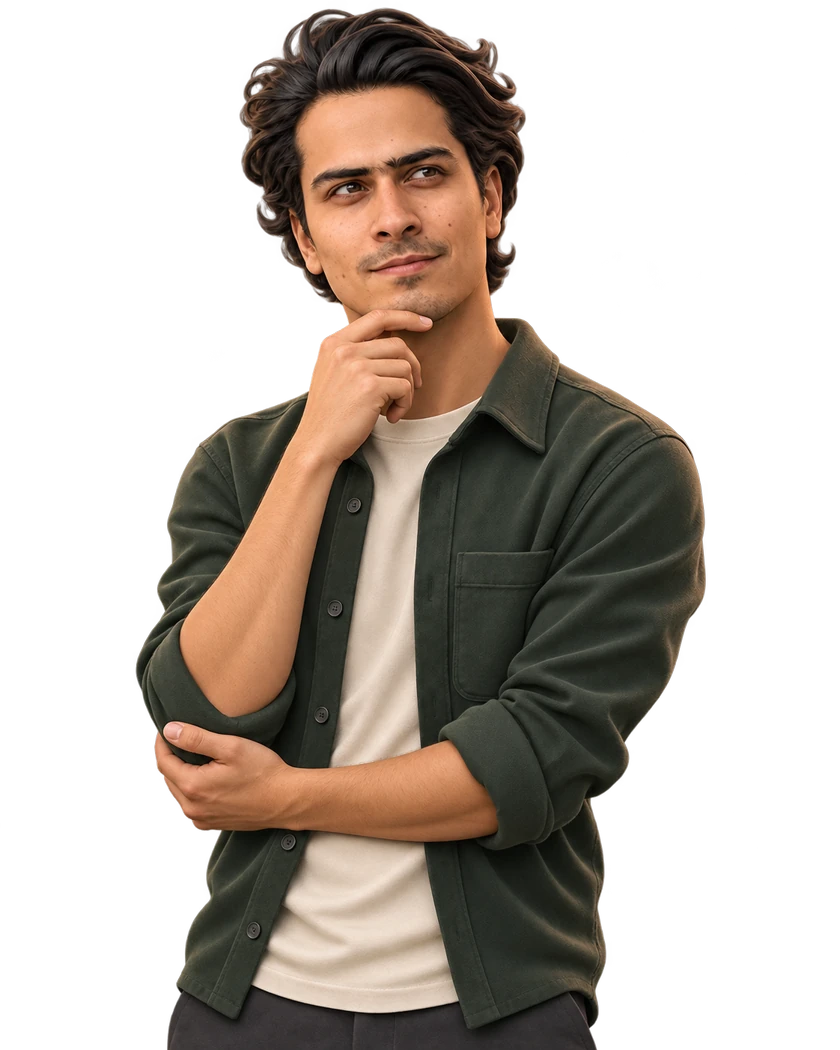
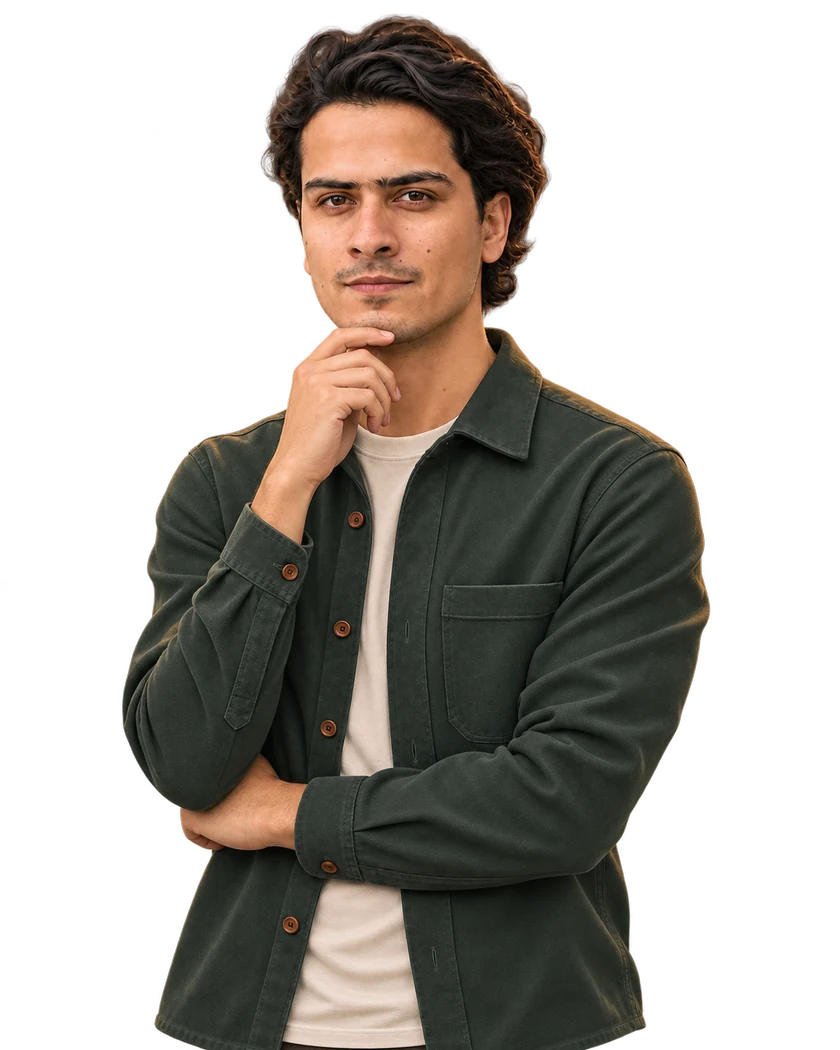
Match selected portrait likeness and remove workplace branding

Changed region(s): [[0.1238, 0.0, 0.8667, 1.0], [0.5571, 0.9448, 0.65, 1.0], [0.5262, 0.5486, 0.5571, 0.579]]

diff --git a/index.html b/index.html
@@ -1,12 +1,12 @@
 <!doctype html>
-<html lang="en"><head><meta charset="utf-8"><meta name="viewport" content="width=device-width, initial-scale=1"><meta name="theme-color" content="#11171c"><title>Gunjan Mishra — Research Engineer & Builder</title><meta name="description" content="Selected products, computer vision work, and research by Gunjan Kumar Mishra."><meta property="og:type" content="website"><meta property="og:title" content="Gunjan Mishra — Research Engineer & Builder"><meta property="og:description" content="Selected products, computer vision work, and research by Gunjan Kumar Mishra."><meta property="og:image" content="https://mgunjan67.github.io/media/social-cover.jpg"><meta name="twitter:card" content="summary_large_image"><link rel="canonical" href="https://mgunjan67.github.io/"><meta property="og:url" content="https://mgunjan67.github.io/"><link rel="icon" href="media/favicon.svg" type="image/svg+xml"><link rel="preload" href="media/fonts/dm-sans-latin.woff2" as="font" type="font/woff2" crossorigin><link rel="stylesheet" href="styles.css"><link rel="stylesheet" href="visual.css"><script src="app.js" defer></script><script src="showcase.js" defer></script><script src="experience.js" defer></script></head><body class="home-page"><a class="skip-link" href="#main">Skip to content</a><header class="site-header shell"><a class="wordmark" href="#home" aria-label="Gunjan home">gunjan<span>✳</span></a><button class="menu-toggle" aria-expanded="false" aria-controls="navigation" aria-label="Open navigation"><span></span><span></span></button><nav id="navigation" aria-label="Main navigation"><a href="#products">Work</a><a href="#research">Research</a><a href="#about">About</a><a class="nav-contact" href="mailto:mgunjan67@gmail.com">Let’s build <span aria-hidden="true">↗</span></a></nav></header><main id="main">
-<section class="hero shell" id="home"><div class="hero-copy"><p class="eyebrow"><span class="hero-status" aria-hidden="true"></span> GUNJAN MISHRA / RESEARCH ENGINEER</p><h1>Research.<br><span class="hero-lime">Build.</span><br><span class="outline-word">Repeat.</span></h1><p class="hero-intro">Research engineer at <a href="angelswing.html">Angelswing ↗</a><br>Independent builder of useful AI.</p><a class="hero-cta" href="#products">Enter the work <span aria-hidden="true">↘</span></a></div><div class="hero-stage" data-depth-scene><div class="hero-orbit orbit-a" aria-hidden="true"></div><div class="hero-orbit orbit-b" aria-hidden="true"></div><div class="hero-world" aria-hidden="true"></div><div class="hero-platform" aria-hidden="true"></div><div class="hero-person"><img src="media/avatars/gunjan-building.webp" alt="Gunjan’s avatar building with a laptop" width="840" height="1050" fetchpriority="high"></div><a class="floating-shot" href="#products" aria-label="Explore Photo Finisher"><img src="media/photos/scene-03-thumb.webp" alt="" width="560" height="374"><span aria-hidden="true">↗</span></a><a class="floating-space" href="#angelswing" aria-label="Explore spatial work"><img src="media/spatial-study.svg" alt="" width="900" height="650"></a><span class="stage-cross" aria-hidden="true">✳</span></div><div class="hero-bottom"><span>KATHMANDU, NP · RESEARCH × PRODUCTS</span><a href="#products">SELECTED WORK <span aria-hidden="true">↓</span></a></div></section>
+<html lang="en"><head><meta charset="utf-8"><meta name="viewport" content="width=device-width, initial-scale=1"><meta name="theme-color" content="#11171c"><title>Gunjan Mishra — Research & Products</title><meta name="description" content="Selected products, computer vision work, and research by Gunjan Kumar Mishra."><meta property="og:type" content="website"><meta property="og:title" content="Gunjan Mishra — Research & Products"><meta property="og:description" content="Selected products, computer vision work, and research by Gunjan Kumar Mishra."><meta property="og:image" content="https://mgunjan67.github.io/media/social-cover.jpg"><meta name="twitter:card" content="summary_large_image"><link rel="canonical" href="https://mgunjan67.github.io/"><meta property="og:url" content="https://mgunjan67.github.io/"><link rel="icon" href="media/favicon.svg" type="image/svg+xml"><link rel="preload" href="media/fonts/dm-sans-latin.woff2" as="font" type="font/woff2" crossorigin><link rel="stylesheet" href="styles.css"><link rel="stylesheet" href="visual.css"><script src="app.js" defer></script><script src="showcase.js" defer></script><script src="experience.js" defer></script></head><body class="home-page"><a class="skip-link" href="#main">Skip to content</a><header class="site-header shell"><a class="wordmark" href="#home" aria-label="Gunjan home">gunjan<span>✳</span></a><button class="menu-toggle" aria-expanded="false" aria-controls="navigation" aria-label="Open navigation"><span></span><span></span></button><nav id="navigation" aria-label="Main navigation"><a href="#products">Work</a><a href="#research">Research</a><a href="#about">About</a><a class="nav-contact" href="mailto:mgunjan67@gmail.com">Let’s build <span aria-hidden="true">↗</span></a></nav></header><main id="main">
+<section class="hero shell" id="home"><div class="hero-copy"><p class="eyebrow"><span class="hero-status" aria-hidden="true"></span> GUNJAN MISHRA / RESEARCH × PRODUCTS</p><h1>Research.<br><span class="hero-lime">Build.</span><br><span class="outline-word">Repeat.</span></h1><p class="hero-intro">Building useful AI<br>for images, spaces, and ideas.</p><a class="hero-cta" href="#products">Enter the work <span aria-hidden="true">↘</span></a></div><div class="hero-stage" data-depth-scene><div class="hero-orbit orbit-a" aria-hidden="true"></div><div class="hero-orbit orbit-b" aria-hidden="true"></div><div class="hero-world" aria-hidden="true"></div><div class="hero-platform" aria-hidden="true"></div><div class="hero-person"><img src="media/gunjan-avatar-3d.webp" alt="Gunjan’s selected portrait avatar" width="960" height="1200" fetchpriority="high"></div><a class="floating-shot" href="#products" aria-label="Explore Photo Finisher"><img src="media/photos/scene-03-thumb.webp" alt="" width="560" height="374"><span aria-hidden="true">↗</span></a><a class="floating-space" href="#spatial-work" aria-label="Explore spatial work"><img src="media/spatial-study.svg" alt="" width="900" height="650"></a><span class="stage-cross" aria-hidden="true">✳</span></div><div class="hero-bottom"><span>COMPUTER VISION · RESEARCH × PRODUCTS</span><a href="#products">SELECTED WORK <span aria-hidden="true">↓</span></a></div></section>
 <section class="photo-chapter" id="products" aria-labelledby="photo-project-title"><div class="shell"><div class="chapter-heading"><div><p class="eyebrow">01 / INDEPENDENT PRODUCT</p><h2 id="photo-project-title"><a href="photo-finisher.html">Photo Finisher<span>↗</span></a></h2></div><p>Better light.<br>Same place.</p></div><div class="home-comparison" id="home-comparison"><img id="home-after" src="media/photos/scene-01-result.webp" alt="Saved edited result of a living room" width="1440" height="962" loading="lazy"><div class="home-before"><img id="home-before" src="media/photos/scene-01-input.webp" alt="One original exposure of the same living room" width="1100" height="734" loading="lazy"></div><span class="home-image-label before-label">ORIGINAL</span><span class="home-image-label after-label">FINISHED</span><span class="home-compare-line"><span>↔</span></span><input type="range" id="home-reveal" min="0" max="100" value="45" aria-label="Compare original and finished property photo"></div><div class="photo-console"><div class="home-scenes" role="group" aria-label="Choose a photo example"><button data-home-scene="01" aria-pressed="true"><img src="media/photos/scene-01-thumb.webp" alt="" width="560" height="374" loading="lazy"><span>Interior</span></button><button data-home-scene="02" aria-pressed="false"><img src="media/photos/scene-02-thumb.webp" alt="" width="560" height="374" loading="lazy"><span>Kitchen</span></button><button data-home-scene="04" aria-pressed="false"><img src="media/photos/scene-04-thumb.webp" alt="" width="560" height="374" loading="lazy"><span>Exterior</span></button></div><a class="project-cta" href="photo-finisher.html">Explore all 25 results <span aria-hidden="true">↗</span></a></div></div></section>
-<section class="spatial-chapter" id="angelswing" aria-labelledby="spatial-project-title"><div class="shell"><div class="chapter-heading"><div><p class="eyebrow">02 / ANGELSWING</p><h2 id="spatial-project-title">Seeing in<br><em>space & time.</em></h2></div><a class="light-project-link" href="angelswing.html">Explore the work <span aria-hidden="true">↗</span></a></div><div class="spatial-experience" id="spatial-experience"><div class="spatial-scene"><div class="scene-glow" aria-hidden="true"></div><img class="spatial-fallback" src="media/spatial-study.svg" alt="Original illustration of spatial mapping" width="900" height="650" loading="lazy"><canvas id="site-canvas" width="1240" height="620" aria-label="Interactive 3D workflow illustration of an invented site"></canvas><span class="scene-caption">DRAG TO EXPLORE</span><span class="scene-coordinate" aria-hidden="true">IMAGE ↔ SPACE</span></div><div class="scene-console"><div class="scene-modes" role="group" aria-label="Choose a spatial workflow"><button data-scene-mode="space" aria-pressed="true">Space</button><button data-scene-mode="time" aria-pressed="false">Time</button></div><label class="scene-range" for="site-rotation"><span>Rotate view</span><input id="site-rotation" type="range" min="-180" max="180" value="-24" aria-label="Rotate site model"></label><label class="scene-range progress-range" id="progress-control" for="site-progress" hidden><span>Build progress <output id="site-progress-value">Structure</output></span><input id="site-progress" type="range" min="5" max="100" value="75" aria-label="Construction stage in the illustration"></label><span class="scene-note">ORIGINAL WORKFLOW ILLUSTRATION</span></div></div></div></section>
+<section class="spatial-chapter" id="spatial-work" aria-labelledby="spatial-project-title"><div class="shell"><div class="chapter-heading"><div><p class="eyebrow">02 / SPATIAL INTELLIGENCE</p><h2 id="spatial-project-title">Seeing in<br><em>space & time.</em></h2></div><a class="light-project-link" href="spatial-work.html">Explore the work <span aria-hidden="true">↗</span></a></div><div class="spatial-experience" id="spatial-experience"><div class="spatial-scene"><div class="scene-glow" aria-hidden="true"></div><img class="spatial-fallback" src="media/spatial-study.svg" alt="Original illustration of spatial mapping" width="900" height="650" loading="lazy"><canvas id="site-canvas" width="1240" height="620" aria-label="Interactive 3D workflow illustration of an invented site"></canvas><span class="scene-caption">DRAG TO EXPLORE</span><span class="scene-coordinate" aria-hidden="true">IMAGE ↔ SPACE</span></div><div class="scene-console"><div class="scene-modes" role="group" aria-label="Choose a spatial workflow"><button data-scene-mode="space" aria-pressed="true">Space</button><button data-scene-mode="time" aria-pressed="false">Time</button></div><label class="scene-range" for="site-rotation"><span>Rotate view</span><input id="site-rotation" type="range" min="-180" max="180" value="-24" aria-label="Rotate site model"></label><label class="scene-range progress-range" id="progress-control" for="site-progress" hidden><span>Build progress <output id="site-progress-value">Structure</output></span><input id="site-progress" type="range" min="5" max="100" value="75" aria-label="Construction stage in the illustration"></label><span class="scene-note">ORIGINAL WORKFLOW ILLUSTRATION</span></div></div></div></section>
 <section class="research-chapter" id="research" aria-labelledby="research-title"><div class="shell research-composition"><div class="research-art"><p class="eyebrow">SELECTED PREPRINTS</p><h2 id="research-title">Research,<br><em>in public.</em></h2><div class="research-person"><span aria-hidden="true">?</span><img src="media/avatars/gunjan-thinking.webp" alt="Gunjan’s avatar in a thoughtful research pose" width="840" height="1050" loading="lazy"></div></div><div class="research-list">
   <a class="research-item" href="https://egusphere.copernicus.org/preprints/2026/egusphere-2026-4315/" target="_blank" rel="noopener noreferrer"><span class="research-number">01</span><div><h3>Rethinking landslide monitoring</h3><p>Fibre-optic sensing & evaluation · EGUsphere preprint</p></div><span class="research-year">2026</span><span class="research-arrow" aria-hidden="true">↗</span></a>
   <a class="research-item" href="https://eartharxiv.org/repository/view/10851/" target="_blank" rel="noopener noreferrer"><span class="research-number">02</span><div><h3>Learning Nepal’s river patterns</h3><p>Runoff forecasting · EarthArXiv preprint</p></div><span class="research-year">2025</span><span class="research-arrow" aria-hidden="true">↗</span></a>
   <a class="research-item" href="https://doi.org/10.36227/techrxiv.175416003.30236370/v1" target="_blank" rel="noopener noreferrer"><span class="research-number">03</span><div><h3>Typing with Emotions</h3><p>Computer vision & human interaction · TechRxiv preprint</p></div><span class="research-year" aria-hidden="true"></span><span class="research-arrow" aria-hidden="true">↗</span></a>
  </div></div></section>
-<section class="about-chapter" id="about" aria-labelledby="about-title"><div class="shell about-composition"><div class="about-portrait"><div class="portrait-tile" aria-hidden="true"></div><img src="media/gunjan-avatar-3d.webp" alt="Gunjan’s original 3D avatar" width="960" height="1200" loading="lazy"><a class="portrait-link" href="#contact" aria-label="Start a conversation">↗</a></div><div class="about-copy"><p class="eyebrow">THE HUMAN BEHIND THE WORK</p><h2 id="about-title">A little<br>more human.</h2><p>Kathmandu-based research engineer. I work across computer vision, scientific machine learning, and software—and enjoy teaching what I learn.</p><a class="underlined-link" href="mailto:mgunjan67@gmail.com?subject=CV%20request">Request my CV <span aria-hidden="true">↗</span></a></div></div></section>
+<section class="about-chapter" id="about" aria-labelledby="about-title"><div class="shell about-composition"><div class="about-portrait"><div class="portrait-tile" aria-hidden="true"></div><img src="media/avatars/gunjan-building.webp" alt="Gunjan’s avatar working with a laptop" width="840" height="1050" loading="lazy"><a class="portrait-link" href="#contact" aria-label="Start a conversation">↗</a></div><div class="about-copy"><p class="eyebrow">THE HUMAN BEHIND THE WORK</p><h2 id="about-title">A little<br>more human.</h2><p>I build tools for seeing and understanding the world—through computer vision, scientific machine learning, and software.</p><a class="underlined-link" href="mailto:mgunjan67@gmail.com?subject=Let%E2%80%99s%20build%20something">Let’s talk ideas <span aria-hidden="true">↗</span></a></div></div></section>
 </main><footer class="site-footer" id="contact"><div class="shell"><div class="contact-card"><div class="contact-copy"><p class="eyebrow">YOUR NEXT IDEA STARTS HERE</p><h2>Let’s make<br>something <em>useful.</em></h2><a class="email-link" href="mailto:mgunjan67@gmail.com">mgunjan67@gmail.com <span aria-hidden="true">↗</span></a></div><div class="contact-character"><div class="contact-halo" aria-hidden="true"></div><img src="media/avatars/gunjan-hello.webp" alt="Gunjan’s avatar waving hello" width="840" height="1050" loading="lazy"></div></div><div class="footer-bottom"><span>© <span id="year">2026</span> Gunjan Kumar Mishra</span><div><a href="https://github.com/mgunjan67" target="_blank" rel="noopener noreferrer">GitHub ↗</a><a href="https://www.linkedin.com/in/gunjan-kumar-mishra-142595199/" target="_blank" rel="noopener noreferrer">LinkedIn ↗</a><a href="https://www.instagram.com/gaurav.__.gunjan/" target="_blank" rel="noopener noreferrer">Instagram ↗</a></div><a href="#main">Back to top ↑</a></div></div></footer></body></html>

diff --git a/photo-finisher.html b/photo-finisher.html
@@ -5,5 +5,5 @@
 <section class="collection-section" aria-labelledby="collection-title"><div class="gallery-heading"><h2 id="collection-title">The collection<span class="heading-dot">.</span></h2><div class="gallery-filters" role="group" aria-label="Filter saved photo results"><button data-photo-filter="all" aria-pressed="true">All 25</button><button data-photo-filter="interior" aria-pressed="false">Interiors</button><button data-photo-filter="exterior" aria-pressed="false">Outdoors</button><button data-photo-filter="workspace" aria-pressed="false">Workspaces</button></div></div><p class="gallery-note">25 saved edits. Open any scene to compare.</p><div class="photo-grid" id="photo-grid"></div><div class="gallery-more"><p id="gallery-count" role="status" aria-live="polite"></p><button class="underlined-link" id="show-all-photos" aria-expanded="false" aria-controls="photo-grid">Explore all 25 results <span>↗</span></button></div></section>
 <div class="project-extras"><details class="project-disclosure"><summary><span>Feature explorations</span><span class="disclosure-plus" aria-hidden="true">+</span></summary><div class="disclosure-content"><p class="detail-note">Three ImageGen concepts from the feature proposal, separate from the saved product results.</p><div class="feature-tabs" role="group" aria-label="Choose a feature concept"><button data-feature="twilight" aria-pressed="true">Virtual twilight</button><button data-feature="wall-finish" aria-pressed="false">Wall finishes</button><button data-feature="staging" aria-pressed="false">Virtual restaging</button></div><div class="feature-stage"><div class="compare-stage" id="feature-comparison"><img id="feature-after" src="media/features/twilight.webp" alt="Generated virtual twilight concept" width="1440" height="962" loading="lazy"><div class="compare-before"><img id="feature-before" src="media/photos/scene-04-result.webp" alt="Saved daylight photo used as the concept starting point" width="1440" height="962" loading="lazy"></div><span class="compare-label before-label">STARTING IMAGE</span><span class="compare-label after-label">CONCEPT</span><span class="compare-line"><span>↔</span></span><input type="range" min="0" max="100" value="45" aria-label="Reveal virtual twilight concept"></div><div class="feature-detail"><span id="feature-number" class="eyebrow">09</span><h3 id="feature-title">Daylight to blue hour</h3><p id="feature-description">A day-to-dusk direction using the photographed setting.</p></div></div></div></details>
 <details class="project-disclosure"><summary><span>20+ style directions</span><span class="disclosure-plus" aria-hidden="true">+</span></summary><div class="disclosure-content"><div class="style-lab"><div class="style-preview"><img id="style-image" src="media/photos/scene-02-result.webp" alt="Kitchen photo for interactive style exploration" width="1440" height="962" loading="lazy"><strong id="style-active">Original finish</strong></div><div class="style-controls"><label for="style-family">Explore a family</label><select id="style-family"><option value="all">All 24 directions</option><option value="natural">Natural & light</option><option value="warm">Warm & inviting</option><option value="editorial">Editorial & expressive</option><option value="cool">Cool & minimal</option></select><div class="style-options" id="style-options" role="group" aria-label="Choose a style direction"></div><p class="detail-note">24 browser color-grade previews for art direction. Core product finishes: Bright natural, Soft natural, and Warm natural.</p></div></div></div></details></div>
-<a class="next-project" href="angelswing.html"><span class="eyebrow">NEXT PROJECT</span><span>Seeing in space & time <span aria-hidden="true">↗</span></span></a></main><footer class="site-footer" id="contact"><div class="shell"><div class="contact-card"><div class="contact-copy"><p class="eyebrow">YOUR NEXT IDEA STARTS HERE</p><h2>Let’s make<br>something <em>useful.</em></h2><a class="email-link" href="mailto:mgunjan67@gmail.com">mgunjan67@gmail.com <span aria-hidden="true">↗</span></a></div><div class="contact-character"><div class="contact-halo" aria-hidden="true"></div><img src="media/avatars/gunjan-hello.webp" alt="Gunjan’s avatar waving hello" width="840" height="1050" loading="lazy"></div></div><div class="footer-bottom"><span>© <span id="year">2026</span> Gunjan Kumar Mishra</span><div><a href="https://github.com/mgunjan67" target="_blank" rel="noopener noreferrer">GitHub ↗</a><a href="https://www.linkedin.com/in/gunjan-kumar-mishra-142595199/" target="_blank" rel="noopener noreferrer">LinkedIn ↗</a><a href="https://www.instagram.com/gaurav.__.gunjan/" target="_blank" rel="noopener noreferrer">Instagram ↗</a></div><a href="#main">Back to top ↑</a></div></div></footer>  <dialog id="photo-dialog" class="photo-dialog" aria-labelledby="photo-dialog-title"><div class="dialog-bar"><span class="eyebrow">PHOTO FINISHER / SAVED COLLECTION</span><button id="close-photo" class="dialog-close" aria-label="Close photo comparison">Close ×</button></div><div class="photo-dialog-heading"><div><p class="eyebrow" id="photo-dialog-category"></p><h2 id="photo-dialog-title"></h2></div><span id="photo-dialog-position"></span></div><div class="compare-stage" id="dialog-comparison"><img id="dialog-after" alt="" width="1440" height="962"><div class="compare-before"><img id="dialog-before" alt="" width="1100" height="734"></div><span class="compare-label before-label">ORIGINAL EXPOSURE</span><span class="compare-label after-label">SAVED RESULT</span><span class="compare-line"><span>‹ ›</span></span><input type="range" min="0" max="100" value="50" aria-label="Reveal edited photo result"></div><div class="photo-dialog-bottom"><button id="photo-prev" aria-label="Previous saved photo">← Previous</button><p id="photo-exposure-note"></p><button id="photo-next" aria-label="Next saved photo">Next →</button></div><p class="photo-keyboard-hint">Drag the divider · Use ← → to browse · Esc to close</p></dialog>
+<a class="next-project" href="spatial-work.html"><span class="eyebrow">NEXT PROJECT</span><span>Seeing in space & time <span aria-hidden="true">↗</span></span></a></main><footer class="site-footer" id="contact"><div class="shell"><div class="contact-card"><div class="contact-copy"><p class="eyebrow">YOUR NEXT IDEA STARTS HERE</p><h2>Let’s make<br>something <em>useful.</em></h2><a class="email-link" href="mailto:mgunjan67@gmail.com">mgunjan67@gmail.com <span aria-hidden="true">↗</span></a></div><div class="contact-character"><div class="contact-halo" aria-hidden="true"></div><img src="media/avatars/gunjan-hello.webp" alt="Gunjan’s avatar waving hello" width="840" height="1050" loading="lazy"></div></div><div class="footer-bottom"><span>© <span id="year">2026</span> Gunjan Kumar Mishra</span><div><a href="https://github.com/mgunjan67" target="_blank" rel="noopener noreferrer">GitHub ↗</a><a href="https://www.linkedin.com/in/gunjan-kumar-mishra-142595199/" target="_blank" rel="noopener noreferrer">LinkedIn ↗</a><a href="https://www.instagram.com/gaurav.__.gunjan/" target="_blank" rel="noopener noreferrer">Instagram ↗</a></div><a href="#main">Back to top ↑</a></div></div></footer>  <dialog id="photo-dialog" class="photo-dialog" aria-labelledby="photo-dialog-title"><div class="dialog-bar"><span class="eyebrow">PHOTO FINISHER / SAVED COLLECTION</span><button id="close-photo" class="dialog-close" aria-label="Close photo comparison">Close ×</button></div><div class="photo-dialog-heading"><div><p class="eyebrow" id="photo-dialog-category"></p><h2 id="photo-dialog-title"></h2></div><span id="photo-dialog-position"></span></div><div class="compare-stage" id="dialog-comparison"><img id="dialog-after" alt="" width="1440" height="962"><div class="compare-before"><img id="dialog-before" alt="" width="1100" height="734"></div><span class="compare-label before-label">ORIGINAL EXPOSURE</span><span class="compare-label after-label">SAVED RESULT</span><span class="compare-line"><span>‹ ›</span></span><input type="range" min="0" max="100" value="50" aria-label="Reveal edited photo result"></div><div class="photo-dialog-bottom"><button id="photo-prev" aria-label="Previous saved photo">← Previous</button><p id="photo-exposure-note"></p><button id="photo-next" aria-label="Next saved photo">Next →</button></div><p class="photo-keyboard-hint">Drag the divider · Use ← → to browse · Esc to close</p></dialog>
 </body></html>

diff --git a/spatial-work.html b/spatial-work.html
@@ -1,0 +1,3 @@
+<!doctype html>
+<html lang="en"><head><meta charset="utf-8"><meta name="viewport" content="width=device-width, initial-scale=1"><meta name="theme-color" content="#f8f8f4"><title>Seeing in space & time — Gunjan Mishra</title><meta name="description" content="Selected high-level work in spatial understanding and construction progress by Gunjan Kumar Mishra."><meta property="og:type" content="website"><meta property="og:title" content="Seeing in space & time — Gunjan Mishra"><meta property="og:description" content="Selected high-level work in spatial understanding and construction progress by Gunjan Kumar Mishra."><meta property="og:image" content="https://mgunjan67.github.io/media/social-cover.jpg"><meta name="twitter:card" content="summary_large_image"><link rel="canonical" href="https://mgunjan67.github.io/spatial-work.html"><meta property="og:url" content="https://mgunjan67.github.io/spatial-work.html"><link rel="icon" href="media/favicon.svg" type="image/svg+xml"><link rel="preload" href="media/fonts/dm-sans-latin.woff2" as="font" type="font/woff2" crossorigin><link rel="stylesheet" href="styles.css"><link rel="stylesheet" href="visual.css"><script src="app.js" defer></script></head><body class="project-page"><a class="skip-link" href="#main">Skip to content</a><header class="site-header shell"><a class="wordmark" href="index.html" aria-label="Gunjan home">gunjan<span>✳</span></a><button class="menu-toggle" aria-expanded="false" aria-controls="navigation" aria-label="Open navigation"><span></span><span></span></button><nav id="navigation" aria-label="Main navigation"><a href="index.html#products">Work</a><a href="index.html#research">Research</a><a href="index.html#about">About</a><a class="nav-contact" href="mailto:mgunjan67@gmail.com">Let’s build <span aria-hidden="true">↗</span></a></nav></header>
+<main id="main" class="project-main shell"><a class="back-link" href="index.html#products">← All work</a><section class="project-intro"><div class="project-title-copy"><p class="eyebrow">COMPUTER VISION / SPATIAL TOOLS</p><h1>Seeing in<br>space & time<span>.</span></h1><p>Computer vision for understanding the built environment.</p></div><div class="project-intro-character"><img src="media/avatars/gunjan-thinking.webp" alt="Gunjan’s avatar in a thoughtful pose" width="840" height="1050" loading="eager"></div></section><section class="case-section" id="spatial"><figure class="case-figure"><img src="media/spatial-study.svg" alt="Original conceptual illustration of a spatial surface" width="900" height="650"><figcaption>Original workflow illustration</figcaption></figure><div class="case-caption"><h2>From image to space.</h2><div><p>Connecting drone imagery with its place in a 3D site.</p><p class="case-role">Computer vision, spatial reasoning, and visual review.</p></div></div></section><section class="case-section" id="progress"><figure class="case-figure"><img src="media/progress-study.svg" alt="Original illustration of three construction stages" width="1200" height="650" loading="lazy"><figcaption>Original workflow illustration</figcaption></figure><div class="case-caption"><h2>A clearer view of change.</h2><div><p>Aligning images over time to make construction progress easier to see.</p><p class="case-role">Image registration and time-lapse alignment workflows.</p></div></div></section><p class="project-footnote">Spatial mapping & visual progress, illustrated.</p><a class="next-project" href="photo-finisher.html"><span class="eyebrow">NEXT PROJECT</span><span>Photo Finisher <span aria-hidden="true">↗</span></span></a></main><footer class="site-footer" id="contact"><div class="shell"><div class="contact-card"><div class="contact-copy"><p class="eyebrow">YOUR NEXT IDEA STARTS HERE</p><h2>Let’s make<br>something <em>useful.</em></h2><a class="email-link" href="mailto:mgunjan67@gmail.com">mgunjan67@gmail.com <span aria-hidden="true">↗</span></a></div><div class="contact-character"><div class="contact-halo" aria-hidden="true"></div><img src="media/avatars/gunjan-hello.webp" alt="Gunjan’s avatar waving hello" width="840" height="1050" loading="lazy"></div></div><div class="footer-bottom"><span>© <span id="year">2026</span> Gunjan Kumar Mishra</span><div><a href="https://github.com/mgunjan67" target="_blank" rel="noopener noreferrer">GitHub ↗</a><a href="https://www.linkedin.com/in/gunjan-kumar-mishra-142595199/" target="_blank" rel="noopener noreferrer">LinkedIn ↗</a><a href="https://www.instagram.com/gaurav.__.gunjan/" target="_blank" rel="noopener noreferrer">Instagram ↗</a></div><a href="#main">Back to top ↑</a></div></div></footer></body></html>

diff --git a/projects.js b/projects.js
@@ -1,25 +1,25 @@
 /* Public sources and explicit user-approved summaries are recorded in public-content.json. */
 window.PORTFOLIO_PROJECTS = {
-  'angelswing-spatial': {
-    section:'products',eyebrow:'Angelswing / Spatial intelligence',title:'From drone imagery to spatial understanding.',
-    summary:'Connecting a point in a drone photograph with its place in a 3D site.',status:'Research Engineer · Selected professional work',
+  'spatial-mapping': {
+    section:'products',eyebrow:'Spatial intelligence',title:'From drone imagery to spatial understanding.',
+    summary:'Connecting a point in a drone photograph with its place in a 3D site.',status:'Computer vision project',
     context:'A photograph is intuitive to inspect. A spatial model provides another kind of context. My work connects these views so people can investigate imagery and understand where an observation belongs.',
     approach:['Explore image-to-model localization and selected-point spatial mapping.','Make spatial relationships inspectable through a browser visualization.','Develop evaluation tools to examine behavior across examples.'],
     role:'Research and engineering across computer vision, spatial reasoning, evaluation tooling, and the operator workflow.',
     boundary:'The visual on this page is an original workflow illustration using an invented site. This short case study describes my contribution at a high level.',boundaryTitle:'About this case study',
     stack:['Computer vision','2D ↔ 3D','Spatial tools'],links:[]
   },
-  'angelswing-progress': {
-    section:'products',eyebrow:'Angelswing / Visual progress',title:'A clearer view of what changed.',
-    summary:'Making images captured over time easier to compare, even when the viewpoint changes.',status:'Research Engineer · Selected professional work',
+  'visual-progress': {
+    section:'products',eyebrow:'Visual progress',title:'A clearer view of what changed.',
+    summary:'Making images captured over time easier to compare, even when the viewpoint changes.',status:'Computer vision project',
     context:'Construction imagery carries a useful story over time. Viewpoint changes can make that story harder to read. I developed alignment workflows that bring images toward a common frame for clearer progress comparisons and time-lapse viewing.',
     approach:['Study visual alignment across images captured at different times.','Build workflows that make construction progress easier to inspect.','Review the resulting comparisons for visual continuity.'],
     role:'Research and implementation of image-registration and time-lapse alignment workflows, including demonstrated visual outputs.',
     boundary:'The three stages shown here are original schematic illustrations. They explain the workflow without showing a customer site or internal product interface.',boundaryTitle:'About this case study',
     stack:['Image registration','Visual comparison','Time-lapse'],links:[]
   },
-  'angelswing-review': {
-    section:'products',eyebrow:'Angelswing / Visual intelligence',title:'Visual intelligence, with a human in the loop.',
+  'visual-review': {
+    section:'products',eyebrow:'Visual intelligence',title:'Visual intelligence, with a human in the loop.',
     summary:'Exploring how visual models can help people investigate site imagery in context.',status:'Research exploration · Review prototype',
     context:'Useful visual intelligence needs an inspectable path from an observation to supporting evidence. This exploration focuses on a review workflow in which a person can examine imagery and investigate what a model has highlighted.',
     approach:['Keep visual evidence accessible during review.','Give observations context rather than presenting isolated labels.','Make human investigation part of the workflow.'],

diff --git a/README.md b/README.md
@@ -16,9 +16,9 @@ The static pages work at a GitHub Pages repository root. The build cleans `dist/
 
 ## Pages and content
 
-- `index.html`: introduction, interactive Photo Finisher and Angelswing showcases, public research, bio, contact.
+- `index.html`: introduction, interactive Photo Finisher and spatial intelligence showcases, public research, bio, contact.
 - `photo-finisher.html`: 25 user-approved saved comparisons, scene filters, keyboard gallery navigation, and optional feature/style explorations in closed disclosures.
-- `angelswing.html`: brief summaries of spatial understanding and construction-progress work, with original generic illustrations.
+- `spatial-work.html`: brief summaries of spatial understanding and construction-progress work, with original generic illustrations.
 - `styles.css`: shared layout and photo interactions. `visual.css`: cinematic/editorial composition, interactive scenes, and responsive character placements.
 - `experience.js`: homepage photo comparison and an original 3D renderer with pointer/keyboard rotation and illustrative construction-progress control. All geometry is invented; the scene renders only on interaction or resize.
 - `app.js`: responsive navigation and optional pointer depth. `photo-lab.js` and `showcase.js`: photo interactions and neutral scene data.
@@ -26,8 +26,8 @@ The static pages work at a GitHub Pages repository root. The build cleans `dist/
 
 `public-content.json` records public research sources, explicit content authorization, visual provenance, and the deployment asset list. Read `AGENTS.md` before adding content.
 
-The user approved high-level Angelswing summaries and the photo collection on 2026-11-08. Employer/customer screenshots, private methods, internal names, coordinates, and unverified metrics are excluded. The approved photo collection uses neutral filenames and stripped metadata. No property addresses or third-party benchmark edits are included.
+The user approved high-level spatial intelligence summaries and the photo collection on 2026-11-08. Employer/customer screenshots, private methods, internal names, coordinates, and unverified metrics are excluded. The approved photo collection uses neutral filenames and stripped metadata. No property addresses or third-party benchmark edits are included.
 
 The three feature concepts were generated with ImageGen and are identified separately from the 25 saved pipeline results. The 24 style directions are browser color-grade previews, not production preset claims. Core product finishes are Bright natural, Soft natural, and Warm natural.
 
-The original avatar remains unchanged in about; the laptop pose leads the hero. Three new transparent pose variants—thinking, working on a laptop, and waving—were generated with built-in ImageGen from that avatar. They are used in research, about, contact, and project introductions. Raw portrait references are not deployed. Pointer depth is disabled for reduced-motion preferences and touch devices. Research entries link directly to their public preprints. Contact links open email; the site uses no analytics or third-party runtime requests.
+The portrait selected by the user on 2026-11-08 leads the hero. The thinking, laptop, and greeting poses were rebuilt with built-in ImageGen using that selected face as the identity reference. They appear in research, about, contact, and project introductions. Company and workplace names, employment wording, and the CV request are removed from the portfolio. Raw portrait references are not deployed. Pointer depth is disabled for reduced-motion preferences and touch devices. Research entries link directly to their public preprints. Contact links open email; the site uses no analytics or third-party runtime requests.

diff --git a/AGENTS.md b/AGENTS.md
@@ -1,14 +1,18 @@
+# Current presentation preference
+
+The user selected a new portrait likeness on 2026-11-08. Use that face in the hero and as the identity reference for every pose. Do not restore earlier avatar variants. Remove company and workplace names from visible copy, metadata, project URLs, and source content. Present project topics and visual work without employment affiliations or CV framing.
+
 # Portfolio content boundary
 
 The user chose all three visual directions: cinematic dark, bold editorial, and playful 3D. Lead with functional photo comparison and an explorable original spatial scene. Keep the text short. The spatial scene must use invented illustrative geometry, distinct from employer output or customer data.
 
 The user's latest design direction is a concise portfolio. Keep the homepage curated and visual: brief project captions, a short research list, a small bio, and contact. Put collections and optional explorations on project pages. Avoid expanding the homepage into detailed project reports, capability catalogs, process sections, or repeated badges.
 
-Keep the presentation visually expressive: layered project previews, restrained depth and motion, and the original avatar plus consistent thinking, laptop-building, and greeting poses in suitable sections. Do not fall back to a plain image grid or reuse one avatar pose everywhere. Respect reduced-motion preferences.
+Keep the presentation visually expressive: layered project previews, restrained depth and motion, and the user-selected portrait plus identity-consistent thinking, laptop-building, and greeting poses in suitable sections. Do not fall back to a plain image grid or reuse one avatar pose everywhere. Respect reduced-motion preferences.
 
 Showcase public research, independently owned work, and the explicitly approved material below. Local access alone does not authorize publishing unrelated material.
 
-The user's 2026-11-08 instruction explicitly approves limited high-level Angelswing project summaries as highlights. Explain contributions to spatial understanding, construction progress, and visual review using original generic workflow illustrations. Do not publish employer screenshots, customer imagery, internal names, private methods or architecture, code, model details, coordinates, or unverified metrics.
+The user's 2026-11-08 instruction explicitly approves limited high-level spatial project summaries as highlights. Explain contributions to spatial understanding, construction progress, and visual review using original generic workflow illustrations. Do not publish employer screenshots, customer imagery, internal names, private methods or architecture, code, model details, coordinates, or unverified metrics.
 
 The same instruction explicitly approves the real estate photo project's 25 saved results and input photos. Publish optimized copies with neutral scene labels and stripped metadata. Exclude customer addresses, commercial terms, client benchmark edits, and entire local project records. Keep generated feature concepts visibly separate from saved pipeline results. Style-lab previews are art-direction explorations, not additional implemented pipeline presets.
 
